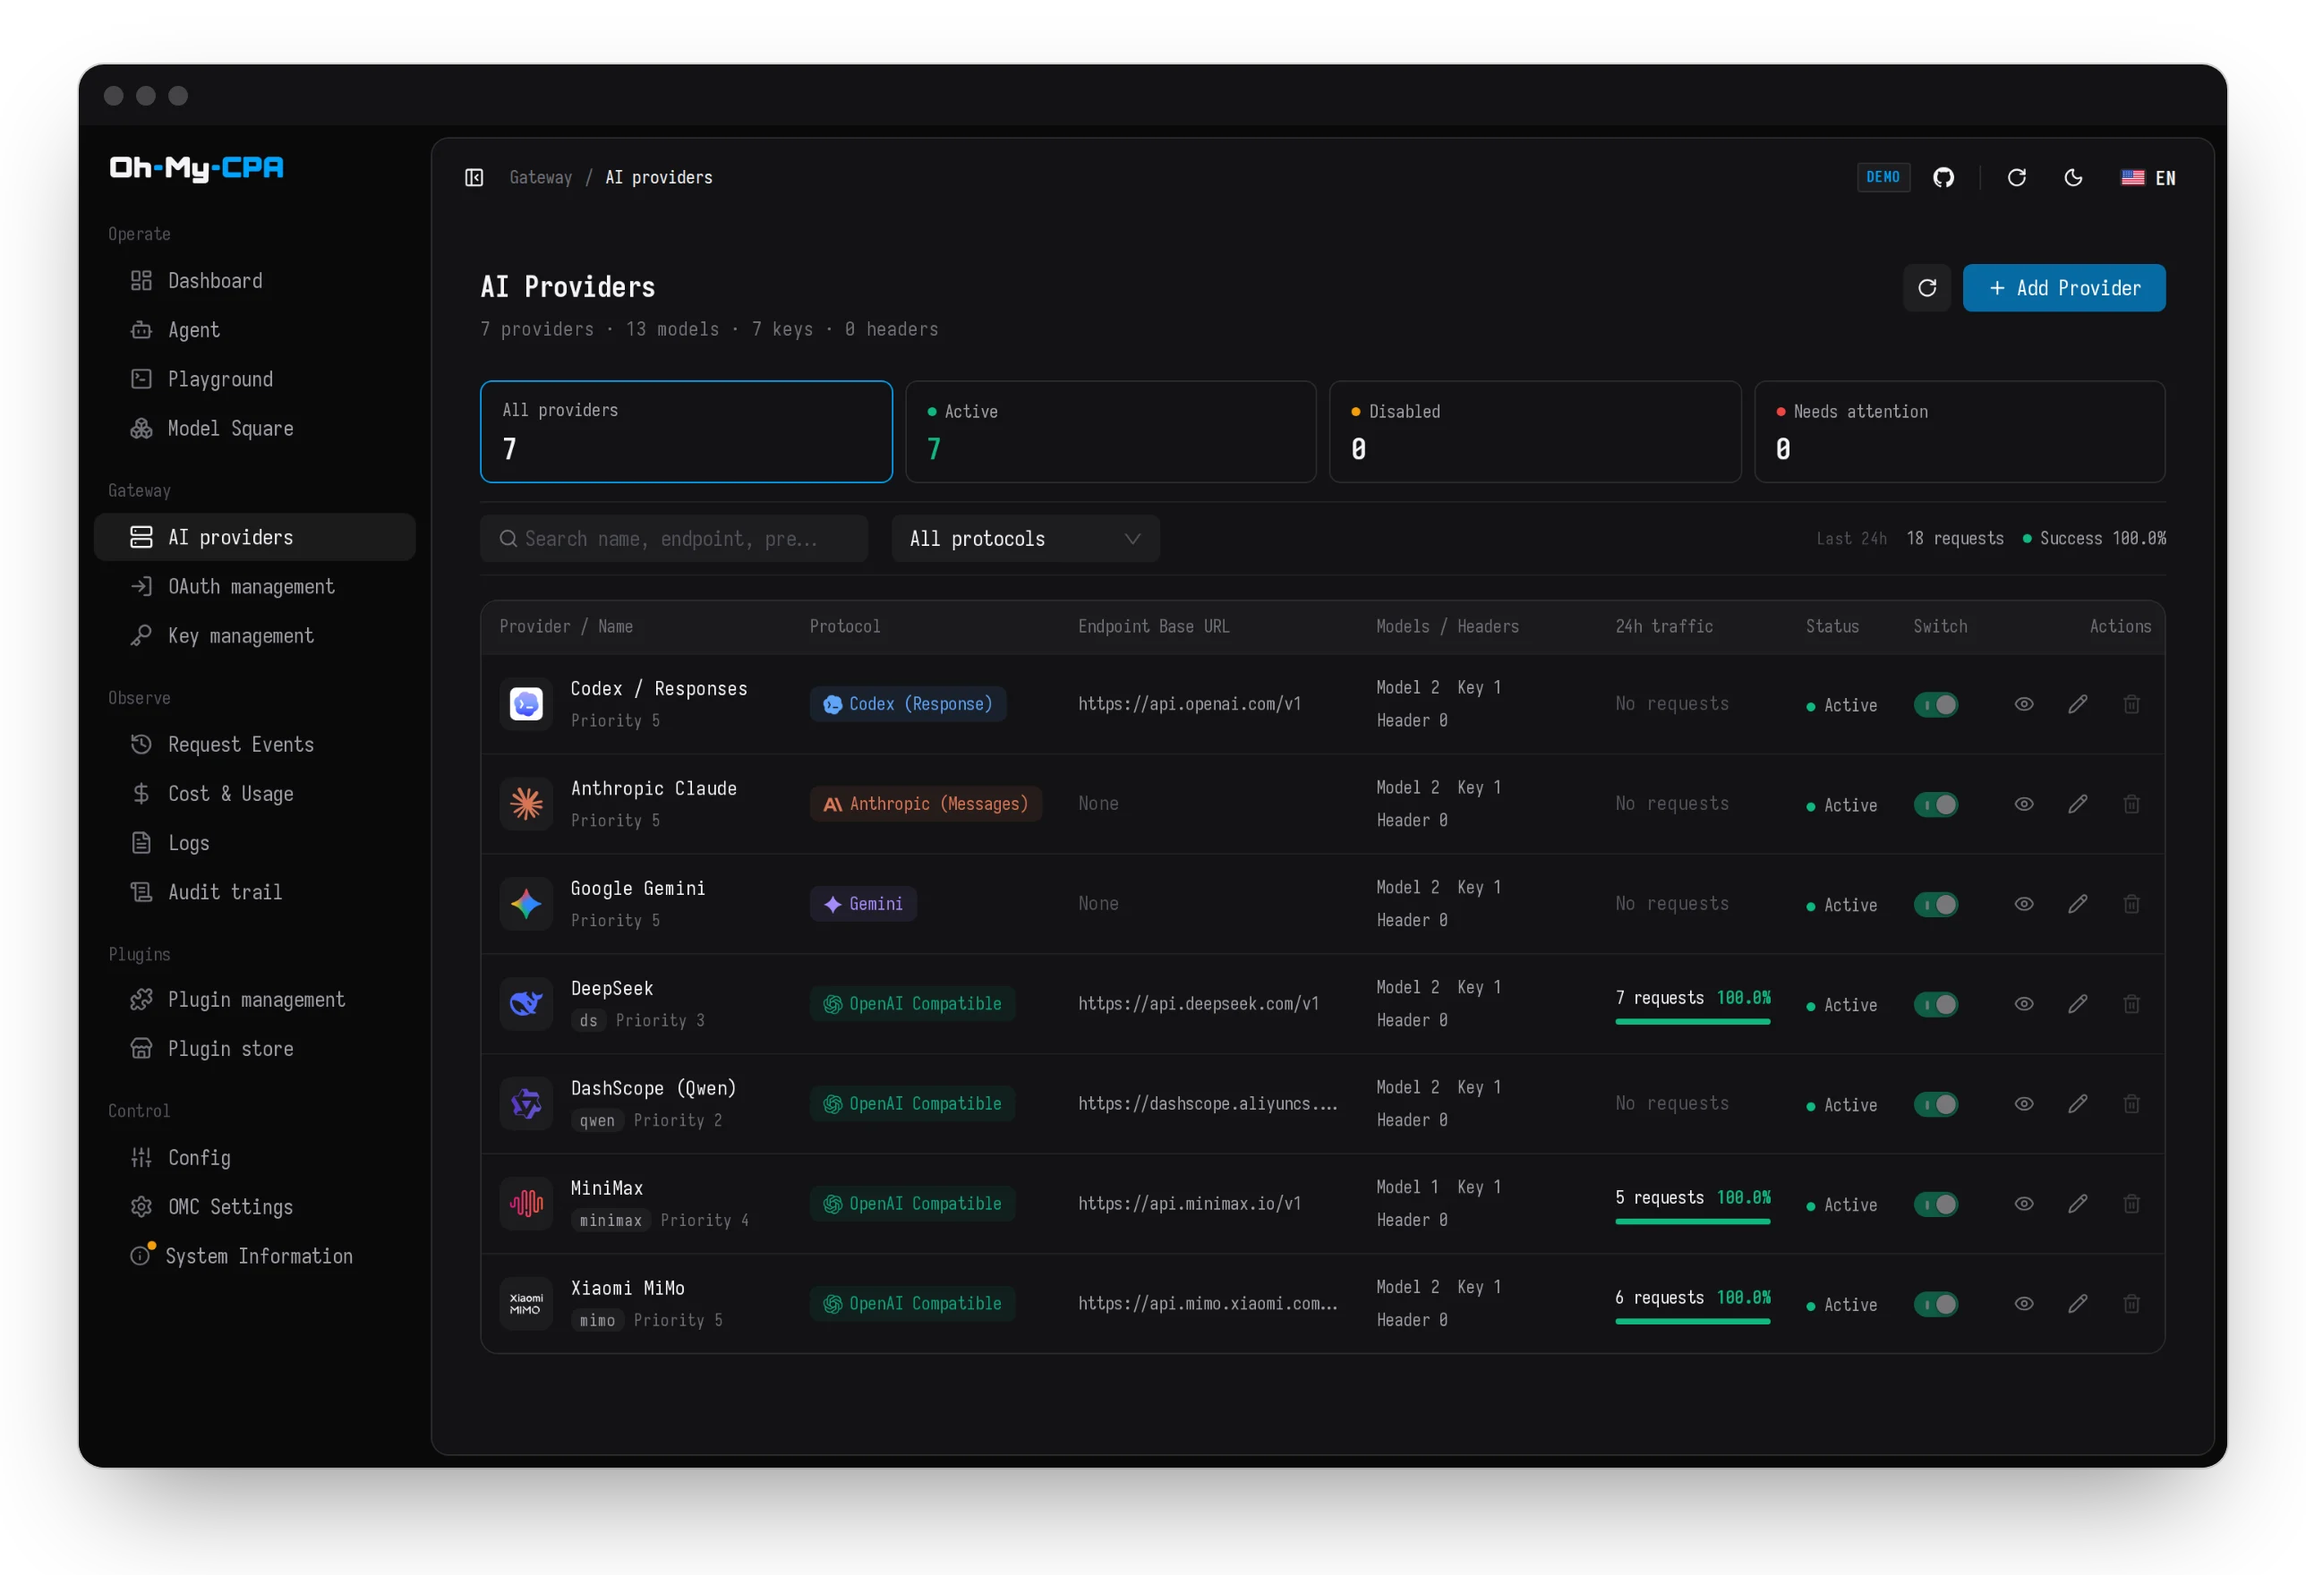
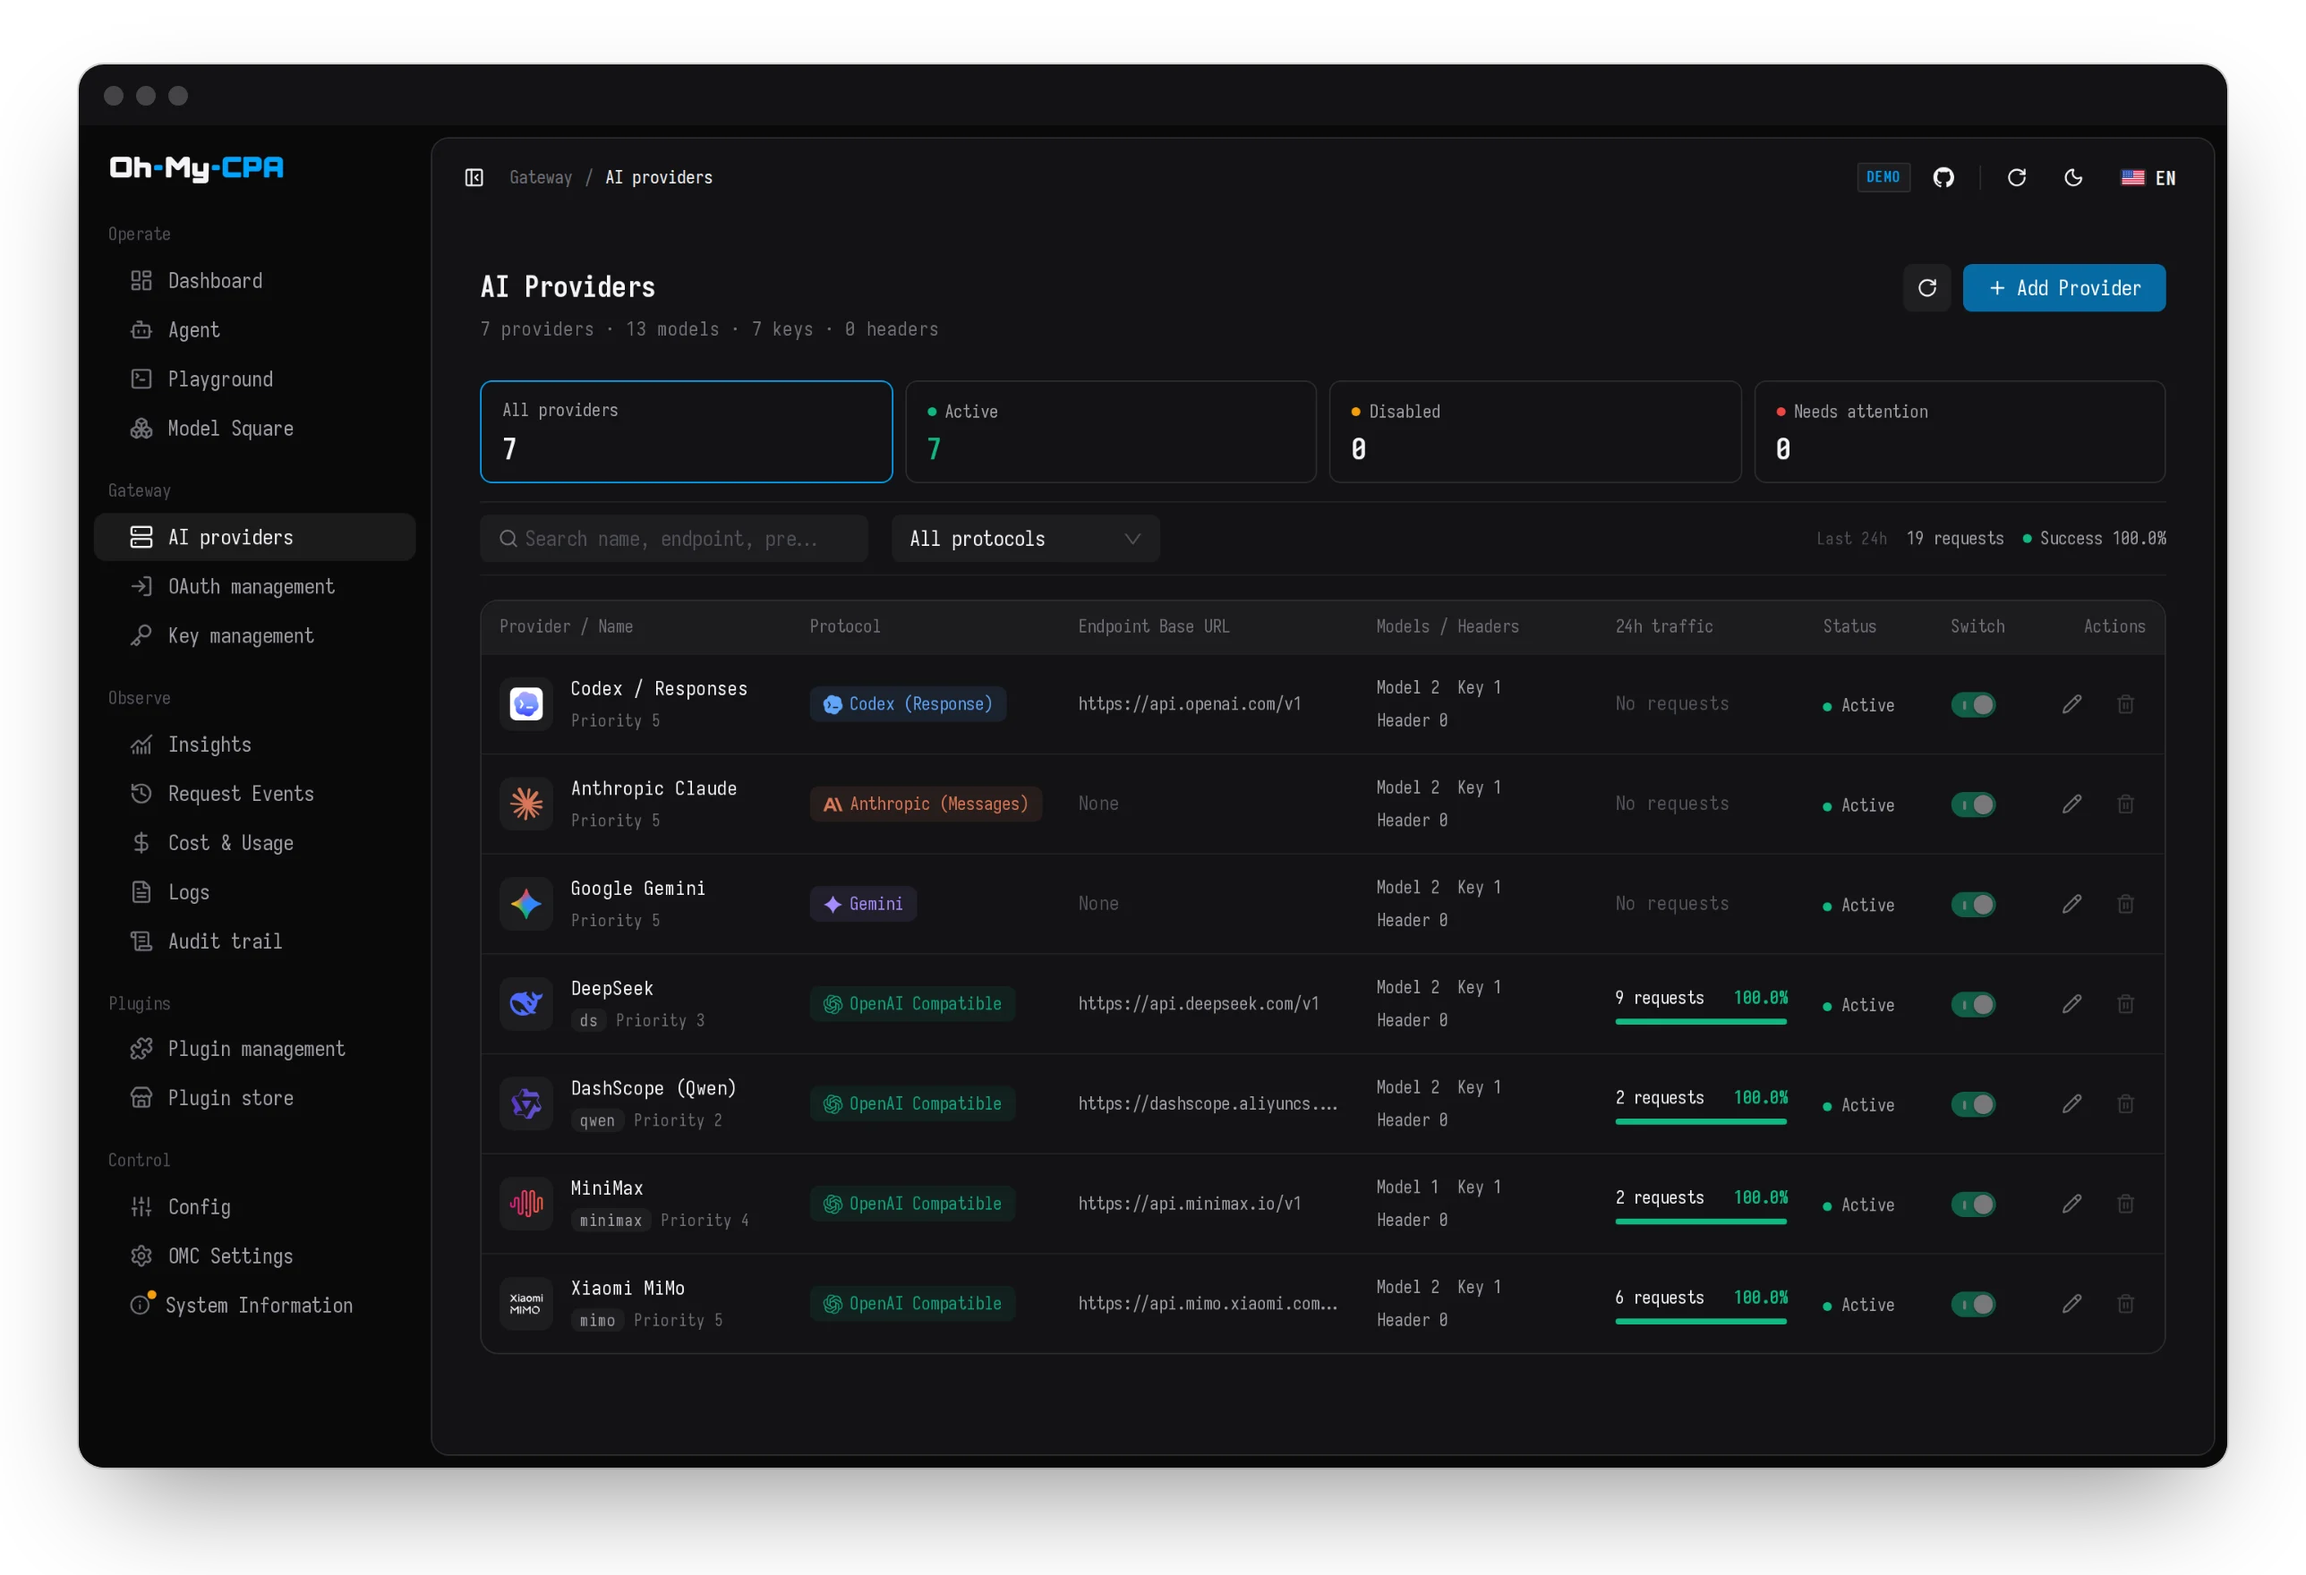
refactor(providers): keep one editor action per row (#311)
## Summary
- Offer one provider editor action alongside removal instead of two
actions opening the same editor.
- Preserve the selected provider identity when editing and refresh the
provider README screenshots.
- Clarify the related API-key action comment.

## Verification
- The new existing-suite regression case fails against the previous
table with two editor actions instead of one, then passes with the
updated table.
- `pnpm test:fast`: all 13 affected checks passed.
- The final provider component suite passed after the failing-first
demonstration.
- Staged secret scan passed before the commit.

## Review
The local CodeRabbit CLI review gate was waived by the maintainer after
its included review quota was exhausted. Automated PR review and CI
remain enabled.

diff --git a/web/tests/provider-protocol.component.test.tsx b/web/tests/provider-protocol.component.test.tsx
@@ -2,6 +2,7 @@ import { fireEvent, screen, waitFor } from '@testing-library/react';
 import { expect, it, vi } from 'vitest';
 import { useT } from '../src/i18n';
 import { useState } from 'react';
+import { ProviderTable } from '../src/components/providers/ProviderTable';
 import { ProviderEditorDrawer } from '../src/components/providers/ProviderEditorDrawer';
 import { useProviderManagement } from '../src/components/providers/useProviderManagement';
 import { useProviderIconOverrides } from '../src/components/providers/useProviderIconOverrides';
@@ -102,5 +103,28 @@ it('saves a changed protocol with the original identity and refreshes migrated i
     expect(writes()[2].body).toEqual({ 'openai-compat-0': 'Anthropic', 'codex-1': 'DeepSeek', 'codex-2': 'DeepSeek' });
     expect(writes()[2].body['openai-compat-1']).toBeUndefined();
     await waitFor(() => expect(screen.queryByRole('combobox', { name: 'Driver / Protocol' })).toBeNull());
+  } finally { view.unmount(); }
+});
+
+function ProviderRows({ onEdit }: { onEdit: (provider: ProviderItem) => void }) {
+  const t = useT();
+  const editor = useProviderManagement({
+    t, toast, providerIcons: {}, writeProviderIcon: async () => ({ ok: true }),
+    shiftCachedProviderIcons: () => {}, settleProviderRow: () => {},
+  });
+  return <ProviderTable {...editor} providers={[PROVIDER]} providersLoading={false}
+    emptyText="Empty" traffic={new Map()} providerIcons={{}} handleOpenEdit={onEdit} />;
+}
+
+it('offers a single editor action for each provider and passes its identity', () => {
+  installOmcApi();
+  const onEdit = vi.fn();
+  const view = renderWithOmc(<ProviderRows onEdit={onEdit} />);
+  try {
+    const editorActions = screen.getAllByRole('button', { name: /^(Details|Edit): Relay$/ });
+    expect(editorActions).toHaveLength(1);
+    fireEvent.click(editorActions[0]);
+    expect(onEdit.mock.calls).toEqual([[PROVIDER]]);
+    expect(screen.getByRole('button', { name: 'Delete: Relay' })).toBeTruthy();
   } finally { view.unmount(); }
 });

diff --git a/web/src/components/providers/ProviderTable.tsx b/web/src/components/providers/ProviderTable.tsx
@@ -2,7 +2,7 @@ import type React from 'react';
 import clsx from 'clsx';
 import { Button, Tooltip } from 'antd';
 import { Switch } from '../common/Switch';
-import { DeleteOutlined, EditOutlined, EyeOutlined } from '../icons';
+import { DeleteOutlined, EditOutlined } from '../icons';
 import type { ColumnsType } from 'antd/es/table';
 
 import { useT } from '../../i18n';
@@ -335,19 +335,10 @@ export function ProviderTable({
     {
       title: t('common.actions'),
       key: 'actions',
-      width: 120,
+      width: 88,
       align: 'right',
       render: (_, record) => (
         <div className="row-actions">
-          <Tooltip title={t('common.details')}>
-            <Button
-              size="small"
-              className="row-action-btn"
-              icon={<EyeOutlined />}
-              onClick={() => handleOpenEdit(record)}
-              aria-label={`${t('common.details')}: ${record.name}`}
-            />
-          </Tooltip>
           <Tooltip title={t('common.edit')}>
             <Button
               size="small"

diff --git a/web/src/components/keys/ApiKeysList.tsx b/web/src/components/keys/ApiKeysList.tsx
@@ -180,7 +180,7 @@ export const ApiKeysList: React.FC<ApiKeysListProps> = ({
     );
   };
 
-  // The provider list's three glyphs, in its order: look, edit, remove. Looking at a key is
+  // Three glyphs, in the provider list's order with a look in front: look, edit, remove. Looking at a key is
   // following its traffic, which needs the fingerprint stored traffic carries; without one the
   // action is disabled and says why, because that absence is worth seeing.
   const renderActions = (record: ApiKeyRecord) => (
